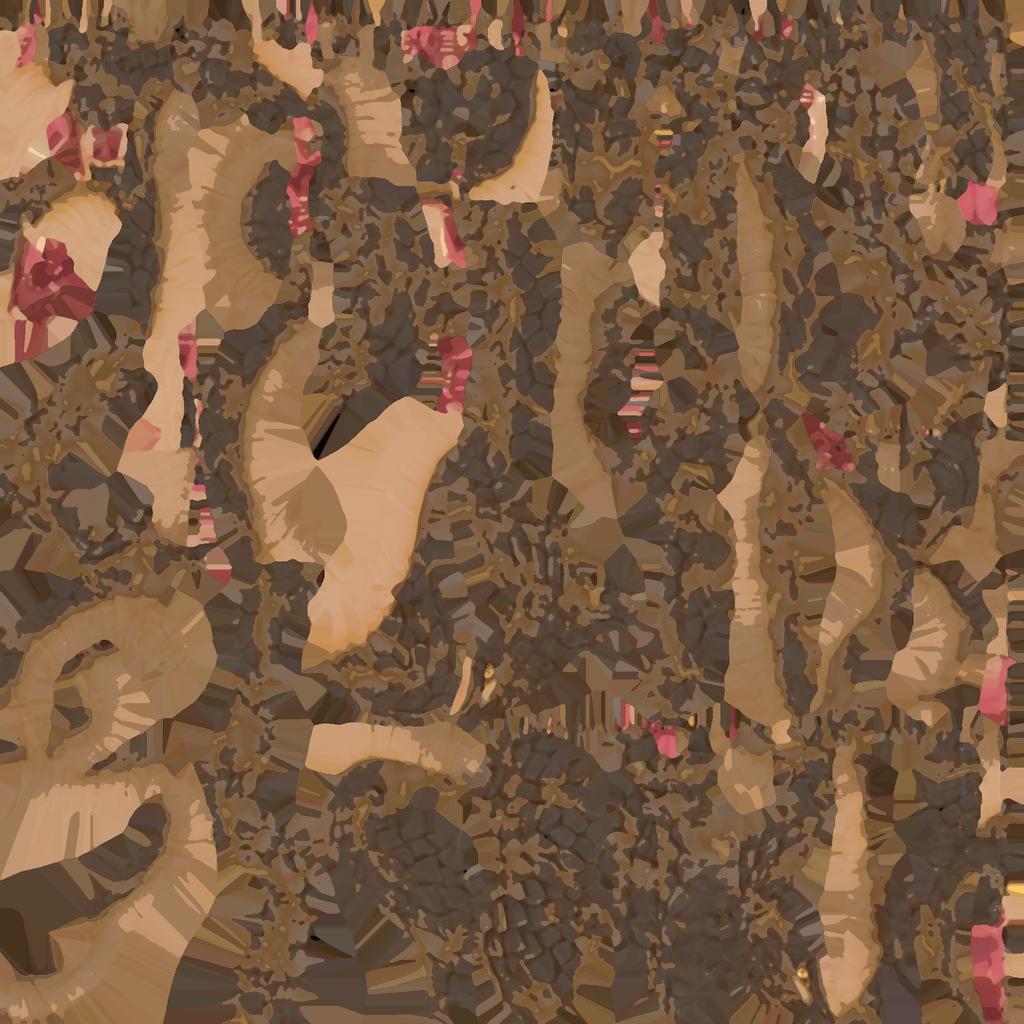
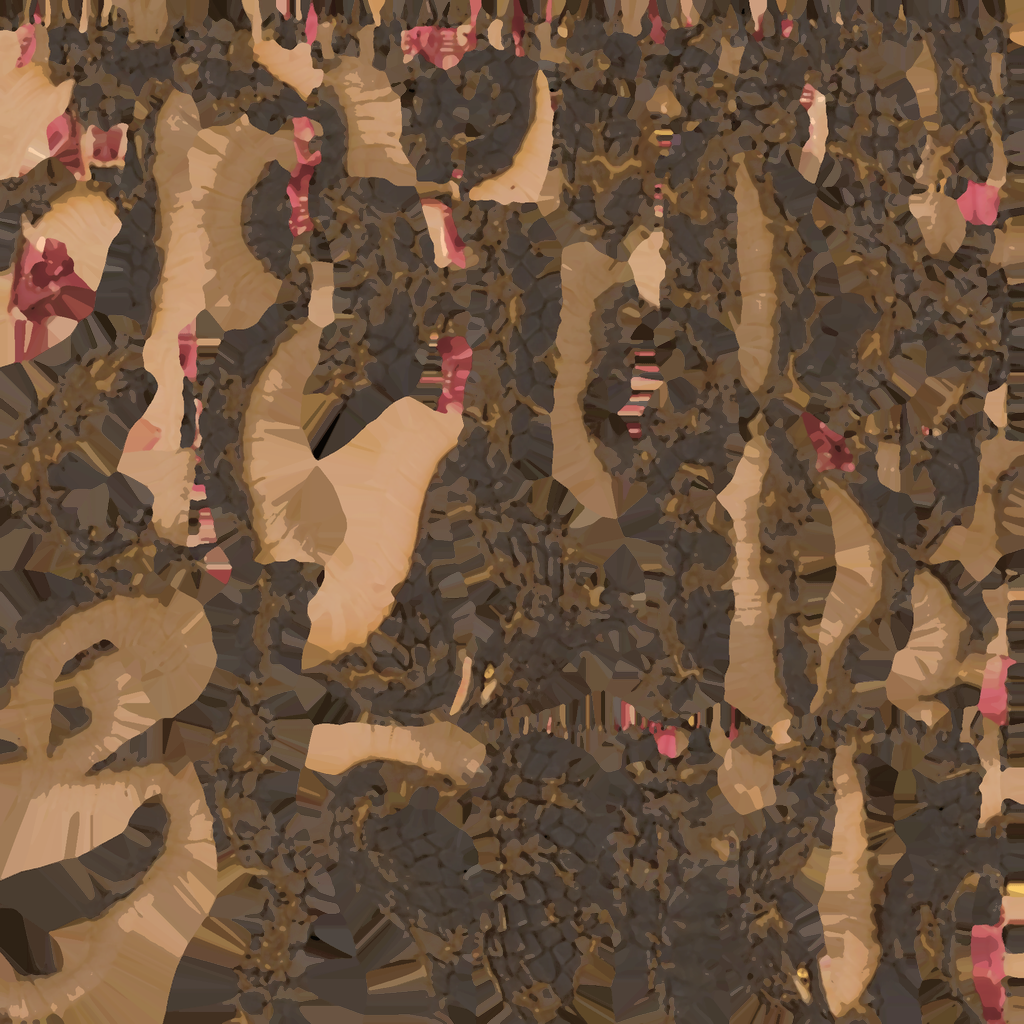
VIS-CREATURES: softer fulgocobra grade after CPU check; MANIFEST and READY summary
Claude-Session: https://claude.ai/code/session_01GPgpLUoVGEh4Jh3v9eKjTT

diff --git a/tools/art_pipeline/grade_vis_creatures.py b/tools/art_pipeline/grade_vis_creatures.py
@@ -50,7 +50,9 @@ def _hue_w(h, lo, hi, feather=8.0):
 def fulgocobra(rgb):
     # GPU roster: "dark brown on stage" (R2 value and rim). Same lift as the
     # landed coat lifts, so the scales and hood separate from the ground.
-    return G.grade(rgb, (0.32, 0.46), (0.55, 0.70), 1.45, 0.03, 1.0)[0]
+    # CPU check (1 Nov): x1.45 at full saturation turned the brown coat lemon
+    # yellow; a gentler, desaturating lift keeps it earthy.
+    return G.grade(rgb, (0.30, 0.42), (0.45, 0.60), 1.25, 0.025, 0.8)[0]
 
 
 def mirejaw(rgb):

diff --git a/ralph/reports/LANES/CREATURES/READY.md b/ralph/reports/LANES/CREATURES/READY.md
@@ -1,0 +1,51 @@
+# VIS-CREATURES lane: READY for tb/vis-batch1
+
+## Summary (1 Nov 2026)
+
+**Status.** Zero criteria closed. Nothing here is judged yet, and no CPU score is claimed. Every change is behind a flag that ships OFF, on `tb/vis-creatures`. `MANIFEST.json` lists each item, its flag and its capture. Per the coordinator's update, there are no single-candidate READY lines.
+
+**Game changes waiting on the batch GPU run:**
+- **Coat grades.** Script: `tools/art_pipeline/grade_vis_creatures.py`. Each is a graded albedo `<stem>_vis1.png` behind `creature_coat_flags.json: creatures_vis_coat_<species>`:
+  - fulgocobra: an earthy value lift ("dark brown on stage");
+  - mirejaw: a gentle lift of the darkest hide;
+  - cannonback: the brass and olive plating desaturated toward weathered horn ("machinery shell");
+  - abyssal_guardian: the cyan dots muted, the blue deepened, and self-lit emission ×0.6 ("glossy vinyl, regular dots");
+  - veridian: the bone-white bands lowered to warm ivory and the moss noise smoothed;
+  - voltarach: the gold halo darkened to bronze, the arc cores kept, the black base lifted to dark bronze, the blue eyes brightened ("gold covers most of the body");
+  - mudsnout: local value contrast on the face ("single tan value");
+  - solmane: mild local contrast.
+- **Height.** `creature_scale_flags.json: creatures_vis_taller_mirejaw` sets mirejaw ×1.35. It measures 2.80 → 3.78 m at runtime, and water_mirejaw grows too.
+- **Grounded hits** (`creature_clip_flags.json`):
+  - bramblebun: rotation ×1.35, position ×0.25 (its hit "looks airborne");
+  - water_cannonback: rotation ×1.6, position ×0.5.
+- **NPC bodies** (#25 wandering trainer, #27 young trainer, #28 trader, #29 innkeeper):
+  - Script: `tools/art_pipeline/grade_vis_npcs.py`. Skin loses its chalk and blotches, eyes, brows and mouths gain local contrast, and the darkest cloth lifts a step. Atlas and identity are unchanged, and reserved-red texels go down.
+  - Flags: `character_body_flags.json: npc_vis_body_<character>`, through the new `character_model.gd::with_body_flags` hook.
+
+**Checks.**
+- **New unit tests:** `tests/test_creature_coat_flags.gd` and `tests/test_character_body_flags.gd`. Both pass in a scratch project.
+- **What failed in the scratch project, and why:**
+  - `test_every_flag_resolves_when_enabled` fails only on the older flags' sources (duskhush, sparkit and others), which aren't in the scratch project. Every new flag passes.
+  - `test_character_metallic` and `test_character_appearance_variants` fail identically with and without the hook, so those failures come from the missing assets.
+  - The full suite was not run: the container can't import the whole project.
+- **Runtime probes** (a real CreatureBody, or `character_model.build`, with the flags flipped on):
+  - every graded albedo binds on its land and water form;
+  - Abyssal Guardian's emission reads 0.60;
+  - the NPC overrides bind.
+- **CPU sanity capture** (`capture_f36_poses.gd --whole-body --context`, Low): `_sheet_vis1.png`.
+  - Voltarach reads darker bronze with arcs, and mirejaw is clearly taller than the trainer.
+  - Cannonback and Solmane barely change.
+  - Fulgocobra's first grade went lemon yellow. It was re-graded softer (right half of its tile) before the push.
+
+**CO-F36-7 (matte) finding.** The GPU verdict's "coats is a list" diagnosis is wrong: the flag is a dict on main and on the captured tree (e8da58fe1).
+- A runtime probe on main shows the flag reaching the live materials. Skyrill goes from metallic 1.00 / roughness map to 0.00 / 0.85 / specular 0.35, and Voltarach's roughness goes to 0.80.
+- These species' maps are already nearly matte. Voltarach's metallic is 0, and roughness map means are 0.50–0.67. So the chrome or statue look is painted into the albedo, and material values move little. That is why voltarach gets an albedo grade here instead.
+- The coat hook now logs a misshapen flag instead of silently applying nothing.
+- I don't have a confirmed cause for the GPU's identical frames.
+
+**Not changed (parked, with reasons):**
+- **Galewisp:** carry-frame and faint-wing staging.
+- **Riverdrake:** erect faint crest, plank faint.
+- **Solmane's faint**, and **Terrapup** (7.35 at High on ROSTER-1, already over 7).
+
+These defects are poses or staging. Hand-authoring faint frames without a render risks the CO-F36-1 float, and this container can't import the whole project to render them.
